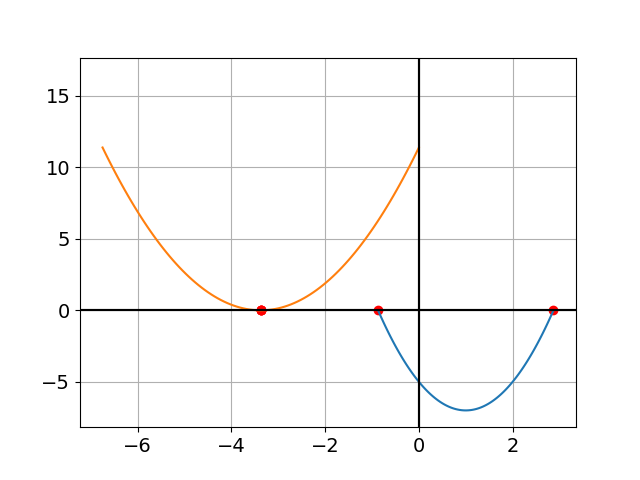
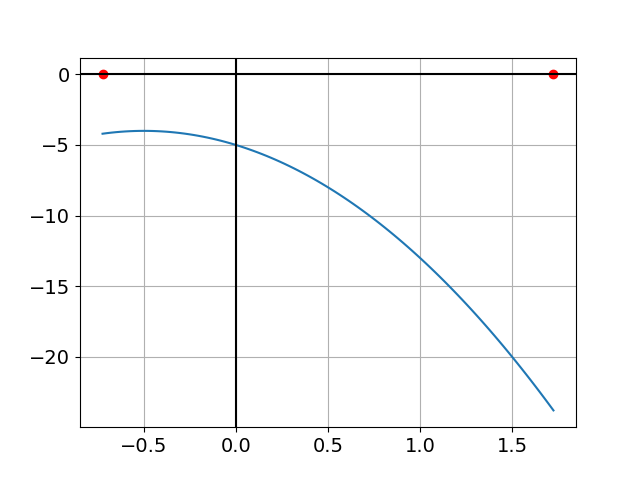
Update

diff --git a/Tkinter12.01.21/main.py b/Tkinter12.01.21/main.py
@@ -1,71 +1,51 @@
 from tkinter import *
-from PIL import ImageTk, Image
-c=0
-cc=12
-def lkm(event):
-    global c, cc
-    c+=1
-    cc+=c
-    lbl.configure(text=c, font=f"Arial {cc}")
-def pkm(event):
-    global c, cc
-    if c>0:
-        c-=1
-        cc-=c
-    else:
-        cc=10
-    lbl.configure(text=c, font=f"Arial {cc}")
-def text_to_btn(event):
-    btn["text"]=ent.get()
-    ent.delete(0,END)
-def text_to_lbl():
-    lbl.configure(text=var.get()) #ent.insert(END,var.get())
+from tkinter import ttk
+from tkinter import scrolledtext
+import webbrowser as webb
+from tkinter.filedialog import *
+def web(event):
+    url=webb.get().webb.open_new_tab(ent.get())
+def open_file():
+    o_file=askopenfilename()
+def save_as():
+    as_file=asksaveasfile(mode='w',defaultextension=(".txt"))
+    text=txt.get(0.0,END)
+    as_file.write(text)
+    as_file.close()
 root = Tk()
 root.title("Название окна")
-root.geometry("500x800")
-btn=Button(root,
-           text="Нажми \nна меня",
-           fg="red",
-           bg="lightblue",
-           font="Arial 40",
-           width=15)
-lbl=Label(root,
-          text="0",
-          height=3)
-
-image=Image.open("click.jpg")
-photo=ImageTk.PhotoImage(image)
-btn_image=Button(root,image=photo)
-ent=Entry(root,
-          fg="red",
-          bg="lightblue",
-          font="Arial 40",
-          width=15)
+root.geometry("700x800")
+tab_control=ttk.Notebook(root)
+tab1=Frame(tab_control)
+tab2=Frame(tab_control)
+tab3=Frame(tab_control)
+tab_control.add(tab1, text="First")
+tab_control.add(tab2, text="Second")
+tab_control.add(tab3, text="Trird")
 var=IntVar()
-var.set(2) #Заранее выбрана значение Value
-rad1=Radiobutton(root,
-                 text="Uks",
-                 variable=var,
-                 value=1,
-                 command=text_to_lbl)
-rad2=Radiobutton(root,
-                 text="Kaks",
-                 variable=var,
-                 value=2,
-                 command=text_to_lbl)
-rad3=Radiobutton(root,
-                 text="Kolm",
-                 variable=var,
-                 value=3,
-                 command=text_to_lbl)
-btn.pack()
-lbl.pack()
-btn_image.pack()
-ent.pack(padx=20,pady=20)
-rad1.pack(side=LEFT, padx=20)
-rad2.pack(side=LEFT, padx=20)
-rad3.pack(side=LEFT, padx=20)
-btn.bind("<Button-1>", lkm)
-btn.bind("<Button-3>", pkm)
-ent.bind("<Return>", text_to_btn)
+var.set(25)
+spin=Spinbox(tab1,from_=0, to=100,textvariable=var)
+ent=Entry(tab1,width=40)
+ent.bind("<Return>", web)
+txt=scrolledtext.ScrolledText(tab1, width=50, height=9)
+menu=Menu(root)
+root.config(menu=menu)
+color_menu=Menu(menu,tearoff=0)
+menu.add_cascade(label="Colors",menu=color_menu)
+color_menu.add_command(label="Red",command=lambda:tab2.configure(bg='Red'))
+color_menu.add_command(label="Blue",command=lambda:tab2.configure(bg='Blue'))
+color_menu.add_command(label="Green",command=lambda:tab2.configure(bg='Green'))
+dialog_m=Menu(menu,tearoff=0)
+menu.add_cascade(label="File", menu=dialog_m)
+dialog_m.add_command(label="Open...", command=open_file)
+dialog_m.add_command(label="Save As",command=save_as)
+spin.grid(row=0, column=0)
+ent.grid(row=0, column=1)
+txt.grid(row=1,column=0, columnspan=2)
+
+
+
+
+tab_control.pack(expand=1,fill="both")
+
 root.mainloop()

diff --git a/Tkinter12.01.21/Formula.py b/Tkinter12.01.21/Formula.py
@@ -9,8 +9,10 @@ root=Tk()
 root.title("Решение уровнения")
 root.geometry("700x800")
 #
+#tick=0
 def text_to_lbl(event):
-    global d,x1,x2,x,a,b,c,rx1,rx2,x_list
+    global d,x1,x2,x,a,b,c,rx1,rx2,x_list, tick
+    #tick+=1
     x_list = []
     a=float(enta.get())
     enta.delete(0, END) #Очистка поля ввода
@@ -48,6 +50,9 @@ def text_to_lbl(event):
         lblx.grid_remove() #Удаление
         lblx1.grid_remove() #Удаление
         lblx2.grid_remove() #Удаление
+       # for tt in tick:
+       #     lblimage.grid_remove()
+       #     print(tt)
         lblimage.grid_remove()
         dd="Корень вычеслить невозможно!"
         lblx["text"] = dd #Замена текста, Корень вычеслить невозможно!
@@ -62,11 +67,11 @@ def graf(event):
         freq = 100
         xi = np.linspace(x_list[0], x_list[1], freq)
         if x_list[1]>x_list[0]:
-            y = [-((a * t ** 2) + (b * t) + c) for t in xi]
+            y = [(a * t ** 2) + (b * t) + c for t in xi]
             plt.scatter(points, y0, color='red')
         else:
             plt.scatter(points, y0, color='red')
-            y = [((a * t ** 2) + (b * t) + c) for t in xi]
+            y = [(-a * t ** 2) + (b * t) + c for t in xi]
         if x_list[1]==x_list[0]:
             if a>0:
                 xii = np.linspace(x_list[0], -x_list[1], freq)
